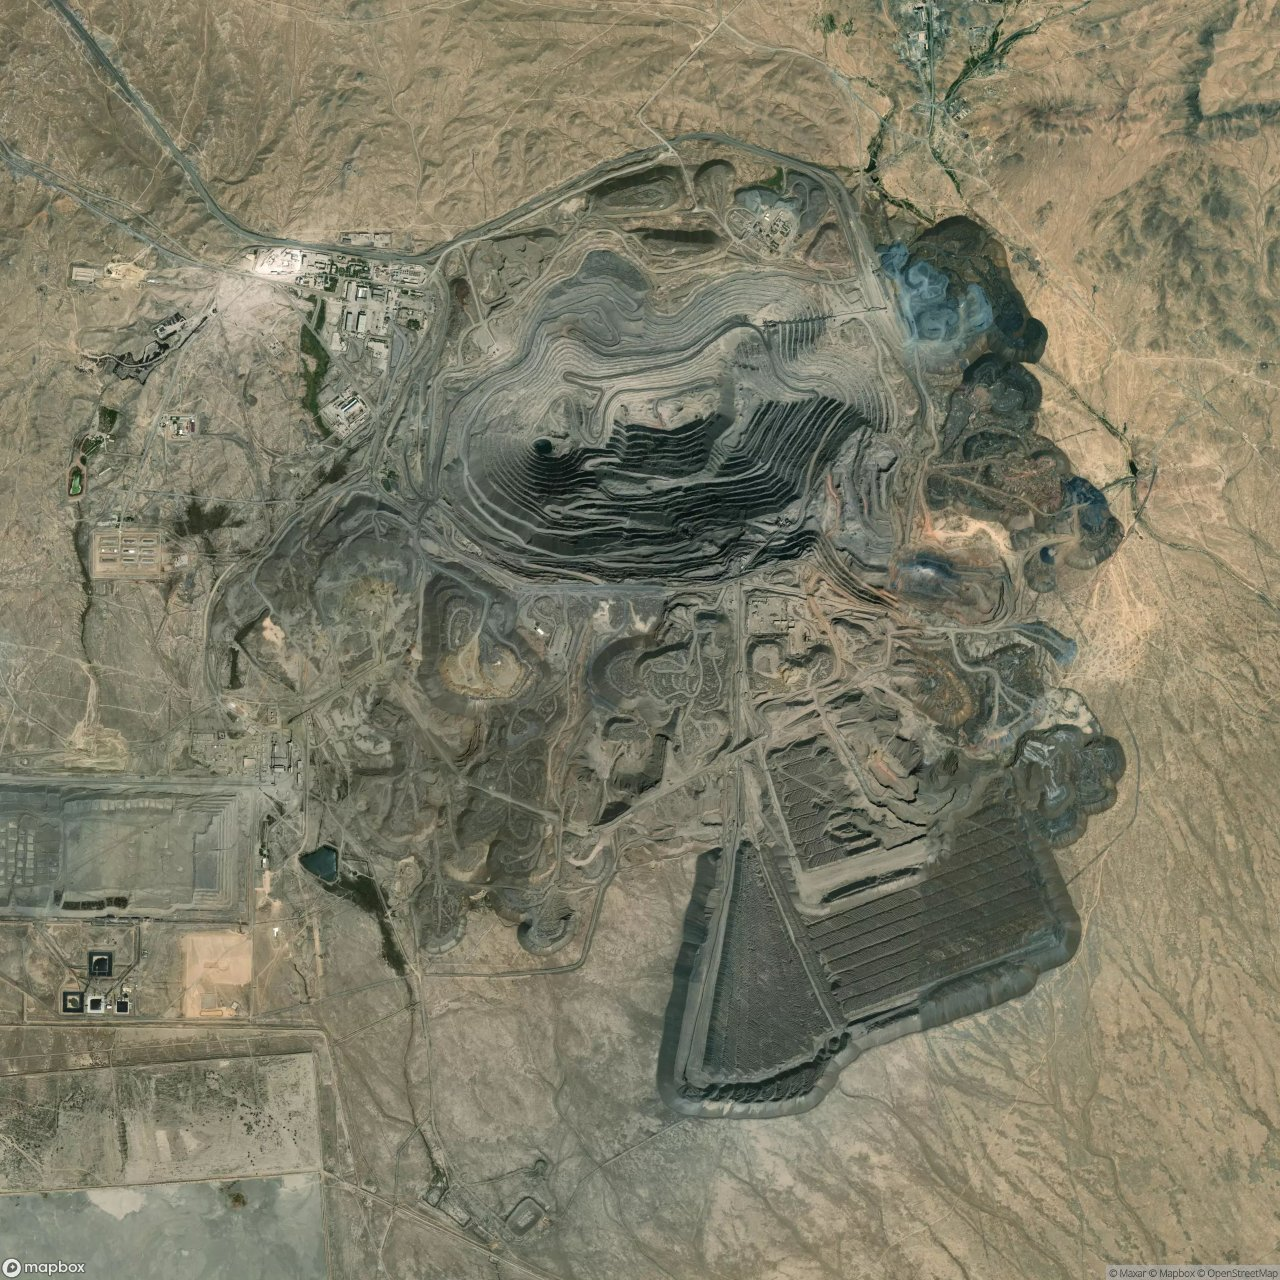
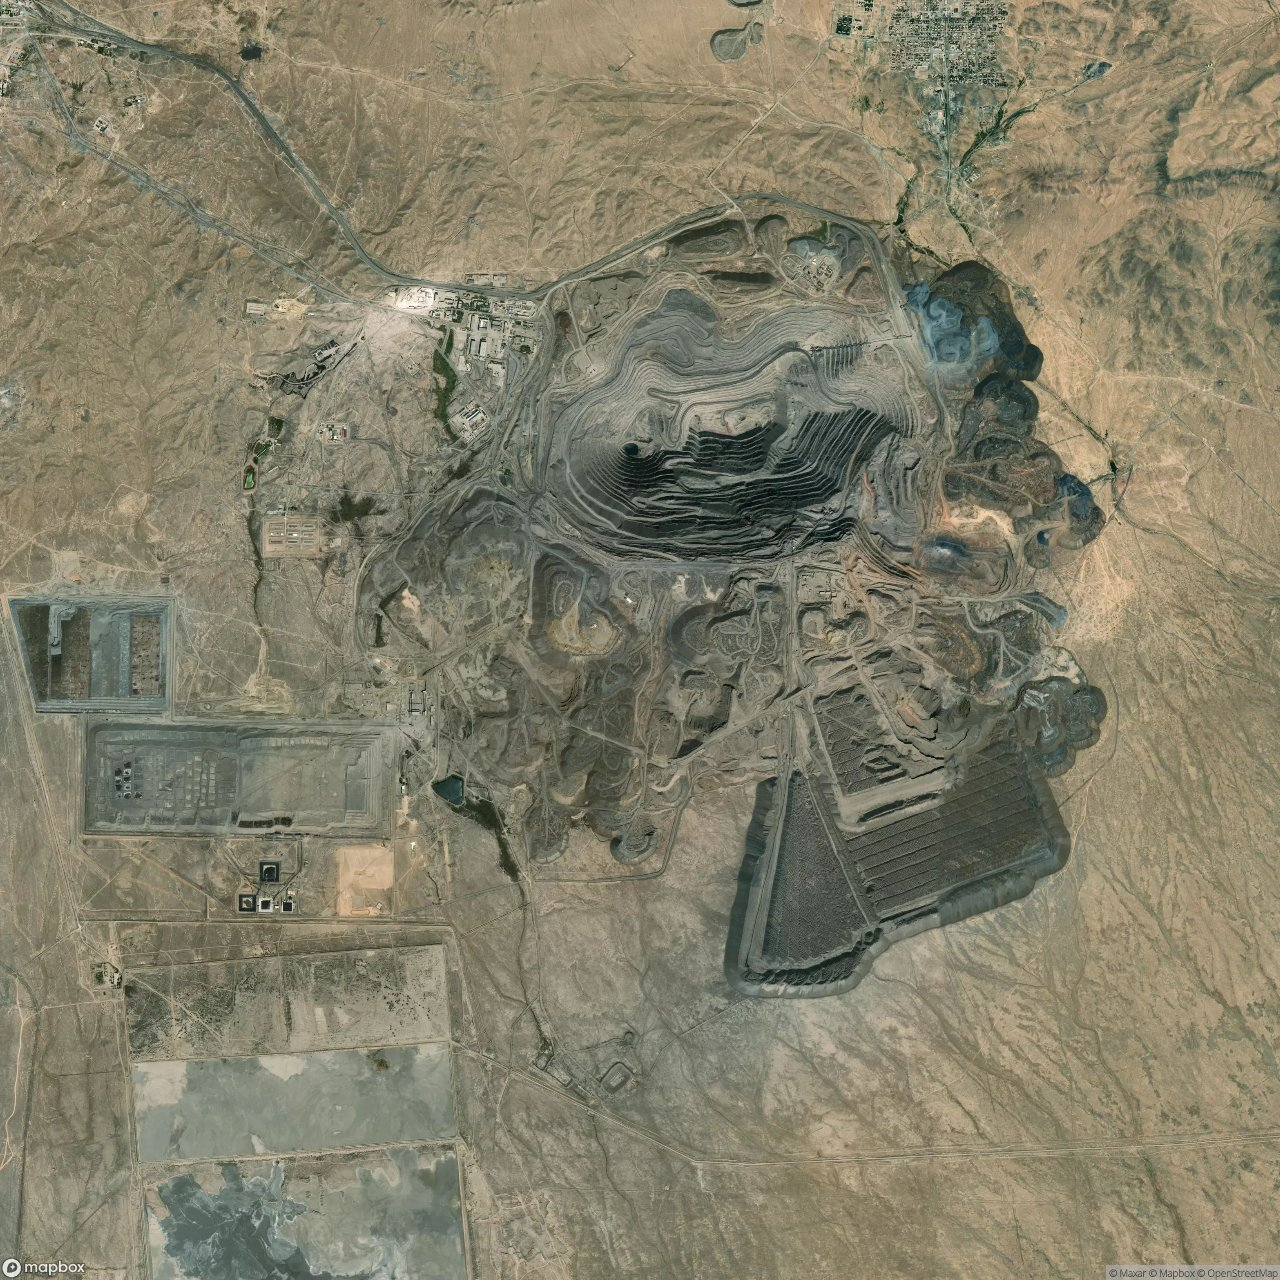
Fixed positioning

diff --git a/app/run.py b/app/run.py
@@ -59,12 +59,11 @@ def update_ui(win):
         for img in trucks_img:
             canvas.delete(img);
 
-        trucks_img = []
-        
-               
+        trucks_img = []       
         active = []
+
         y_scale = (float(args["bbox_nw_lat"]) - float(args["bbox_se_lat"])) / float(args["image_height"])
-        x_scale = (float(args["bbox_se_lng"]) - float(args["bbox_nw_lng"])) / float(args["image_width"])
+        x_scale = (float(args["bbox_se_lng"]) - float(args["bbox_nw_lng"]))  / float(args["image_width"])
         
         print("Max diff x: " + str(float(args["bbox_se_lng"]) -float(args["bbox_nw_lng"])))
         print("Max diff y: " + str(float(args["bbox_nw_lat"]) -float(args["bbox_se_lat"])))
@@ -72,20 +71,24 @@ def update_ui(win):
         print("X scale: " + str(x_scale))
         print("Y scale: " + str(y_scale))
 
+        print("----------------------------------")
         for p in positions:
             found = False
             for eq in equipment:
                 if p["code"] == eq["code"]:
+                    
                     ann = eq["description"]
                     if len(p["positions"]) == 0:
                         continue
                     found = True
                     if eq["description"] in no_gps:
                         no_gps.remove(eq["description"])
-                    y = (float(args["bbox_nw_lat"] - p["positions"][0]["y"])) / y_scale
-                    x = (p["positions"][0]["x"] - float(args["bbox_nw_lng"])) / x_scale
-                    print("Difference x: " + str((p["positions"][0]["y"] - float(args["bbox_nw_lng"]))))
-                    print("Difference y: " + str((float(args["bbox_nw_lat"]) - p["positions"][0]["x"])))
+                    print(str(p["positions"][0]["x"]) + ", " + str(p["positions"][0]["y"]))
+                    y = (float(args["bbox_nw_lat"]) - float(p["positions"][0]["y"])) / y_scale
+                    x = (float(p["positions"][0]["x"]) - float(args["bbox_nw_lng"])) / x_scale
+                    #print("Difference x: " + str((p["positions"][0]["y"] - float(args["bbox_nw_lng"]))))
+                    #print("Difference y: " + str((float(args["bbox_nw_lat"]) - p["positions"][0]["x"])))
+
                     active.append({
                         "desc": ann,
                         "x": x,
@@ -94,11 +97,11 @@ def update_ui(win):
                     break;
             if not found:
                 no_gps.append(eq["description"])
-            
+        print("----------------------------------")  
         print(active)
         for point in active:
             print("Drawing an image @ (" + str(point["x"]) + ", " + str(point["x"]) + ")")
-            id = canvas.create_text(point["x"] - 20, point["y"] - 20, text=point["desc"], fill="white", font=('Helvetica 15 bold'))
+            id = canvas.create_text(point["x"] - 20, point["y"] - 20, text=point["desc"], fill="white", font=('Helvetica 12 bold'))
             trucks_img.append(id)
             id = canvas.create_image(point["x"], point["y"], anchor=NW, image=truck)
             trucks_img.append(id)

diff --git a/app/api/pris.py b/app/api/pris.py
@@ -7,7 +7,7 @@ from datetime import datetime
 def auth(base_url, username, password):
 	return None
 
-def send_random_coordinates(base_url, min_x = 64.540093, max_x = 64.608378, max_y = 41.499359, min_y = 41.447125, equipment = []):
+def send_random_coordinates(base_url, min_x = 41.448598, max_x = 41.513259, max_y = 64.636402, min_y = 64.501910, equipment = []):
 	now = datetime.now().isoformat();
 	for eq in equipment:
 		x = random.uniform(min_x, max_x)
@@ -34,7 +34,7 @@ def get_equipment(base_url, activelist):
 	response = json.loads(response.content.decode("utf-8"))
 	return response["activeList"]
 
-def get_coordinates(base_url, function, simulate = False, min_x = 64.540093, max_x = 64.608378, max_y = 41.499359, min_y = 41.447125, equipment = []):
+def get_coordinates(base_url, function, simulate = False, min_x = 64.540093, max_x = 64.608378, min_y = 41.447125, max_y = 41.499359, equipment = []):
 	if not simulate:
 		url = base_url + "/v1/equipment/positions?functions=" + function + "&max-positions=1"
 		response = requests.get(url)

diff --git a/scripts/getmap_bbox.py b/scripts/getmap_bbox.py
@@ -1,0 +1,17 @@
+import requests
+from sys import argv
+import math
+
+output="muruntau.png"
+token=argv[1]
+w = 1280
+h = 1280
+
+URL = "https://api.mapbox.com/styles/v1/mapbox/streets-v12/static/[64.501910,41.448598,64.636402,41.513259]/1280x1280?access_token=$token"
+
+print("Requesting static map")
+print(URL)
+r=requests.get(URL)
+fd = open(output, "wb")
+fd.write(r.content)
+fd.close()
